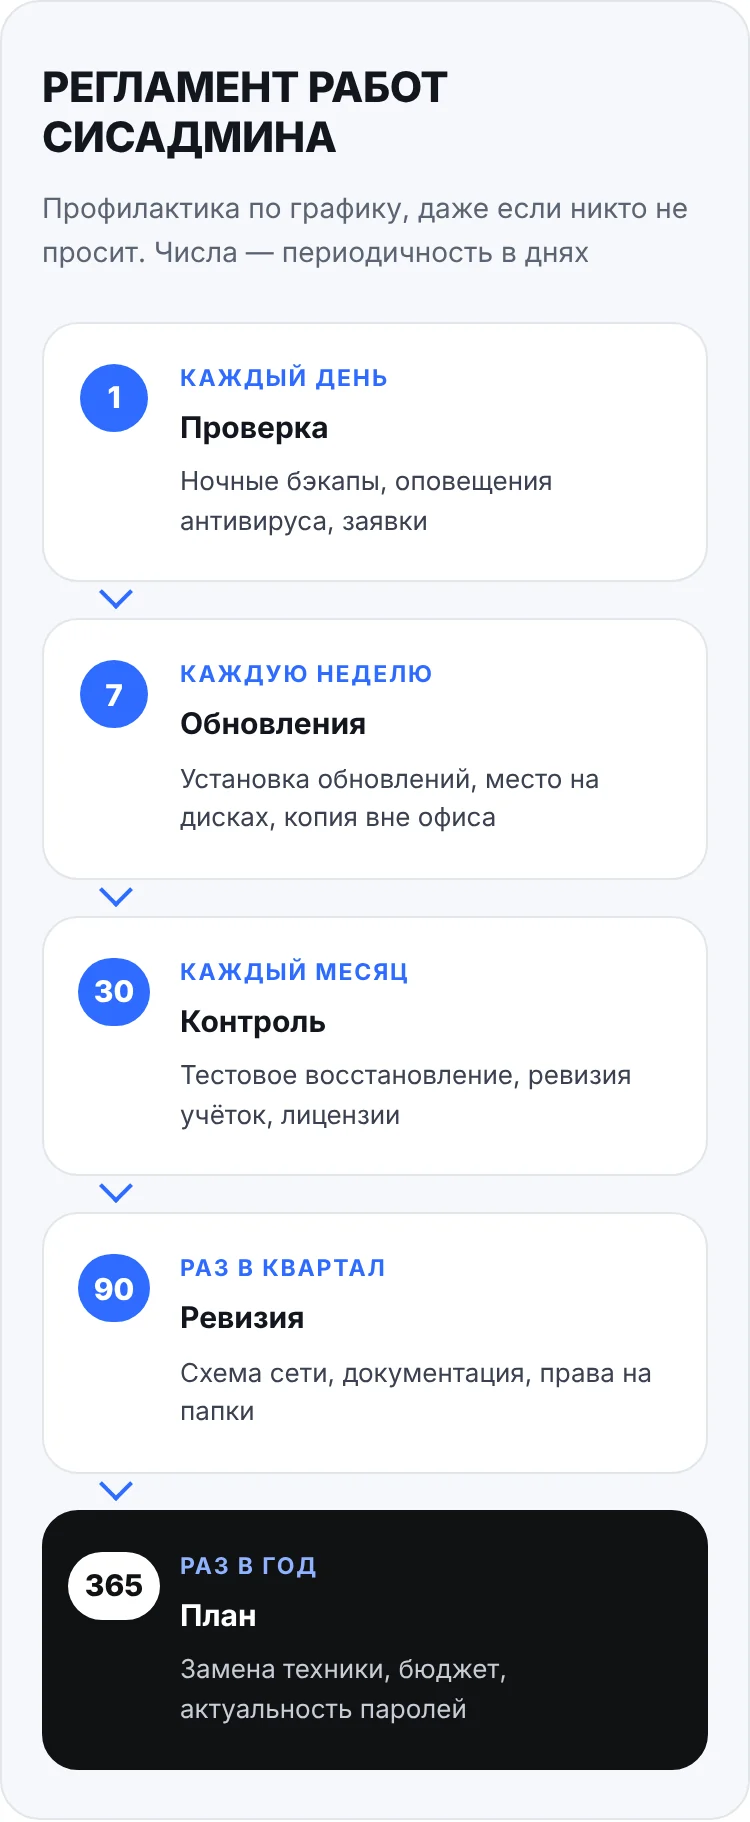
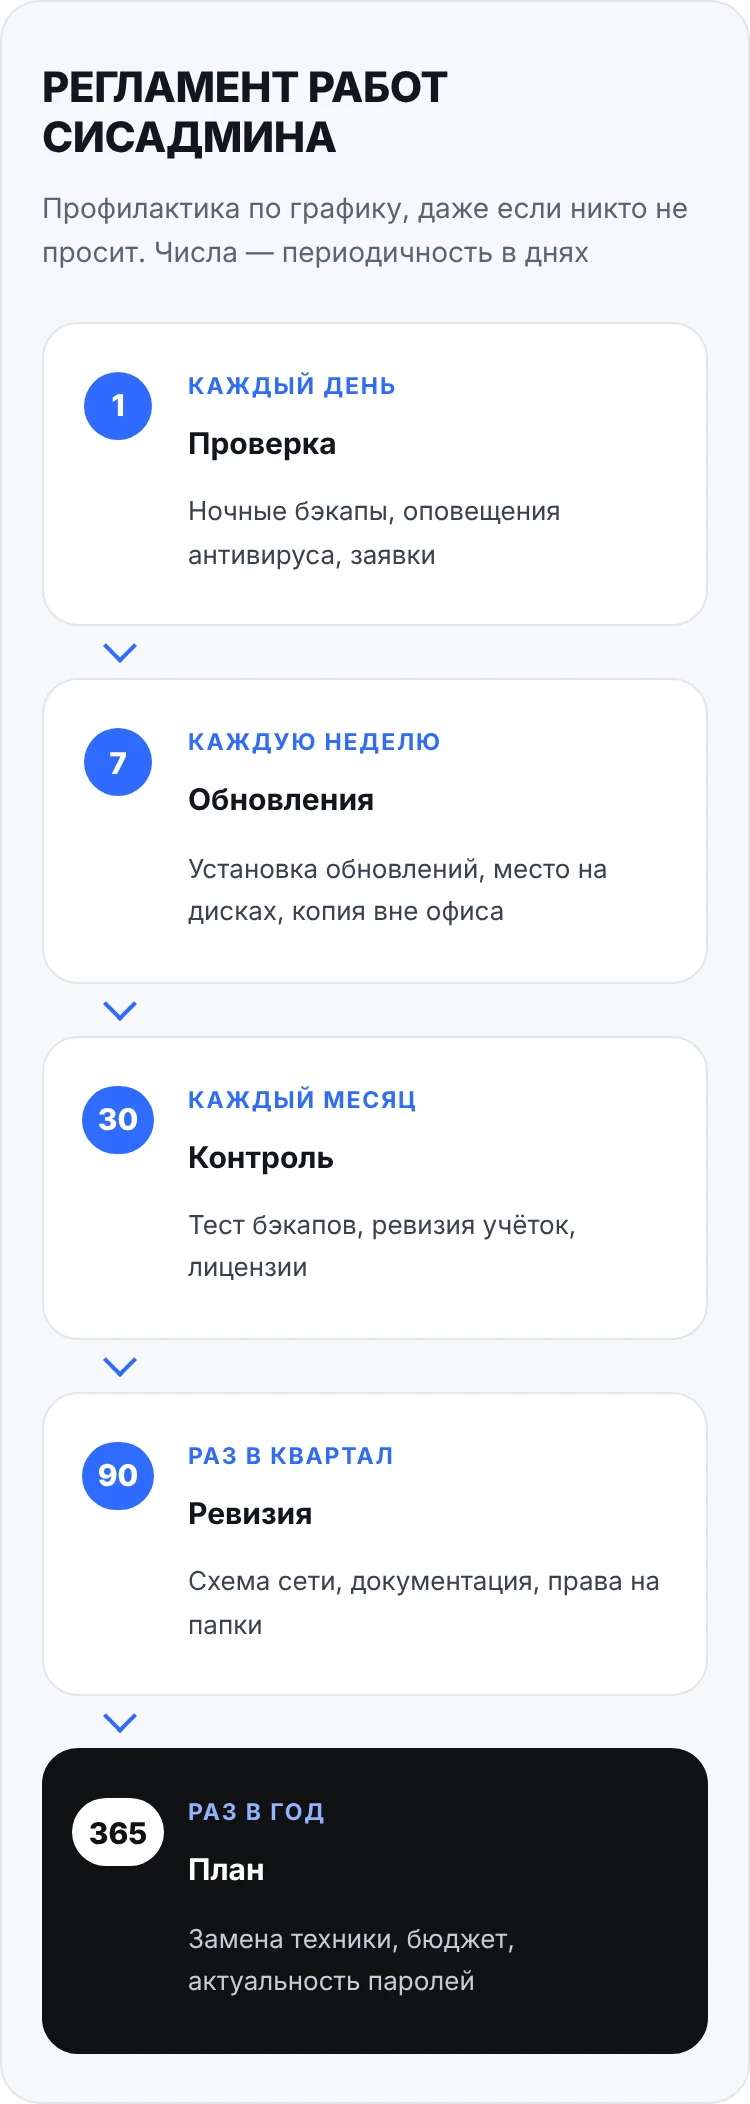
Блог: больше отступов в регламенте сисадмина

diff --git a/obyazannosti-sistemnogo-administratora.html b/obyazannosti-sistemnogo-administratora.html
@@ -391,7 +391,7 @@
 <tr><td>Раз в год</td><td>План замены устаревшей техники и бюджет на следующий год; проверка, что все пароли администраторов актуальны и лежат в хранилище</td></tr>
 </table></div>
 
-<figure class="ig"><picture><source media="(max-width:640px)" srcset="./img/blog/obyazannosti-sistemnogo-administratora-reglament-m.webp" width="750" height="1822"><img src="./img/blog/obyazannosti-sistemnogo-administratora-reglament.webp" width="1640" height="928" alt="Инфографика: регламент работ системного администратора — каждый день, каждую неделю, каждый месяц, раз в квартал и раз в год" loading="lazy" decoding="async"></picture><figcaption>Регламент профилактических работ: от ежедневной проверки бэкапов до годового плана</figcaption></figure>
+<figure class="ig"><picture><source media="(max-width:640px)" srcset="./img/blog/obyazannosti-sistemnogo-administratora-reglament-m.webp" width="750" height="2104"><img src="./img/blog/obyazannosti-sistemnogo-administratora-reglament.webp" width="1640" height="996" alt="Инфографика: регламент работ системного администратора — каждый день, каждую неделю, каждый месяц, раз в квартал и раз в год" loading="lazy" decoding="async"></picture><figcaption>Регламент профилактических работ: от ежедневной проверки бэкапов до годового плана</figcaption></figure>
 <h2>Типы администраторов: кого вы на самом деле ищете</h2>
 <p>Под словом «сисадмин» часто имеют в виду разных специалистов. Полезно понимать разницу, чтобы не переплачивать и не ждать невозможного.</p>
 <ul>
